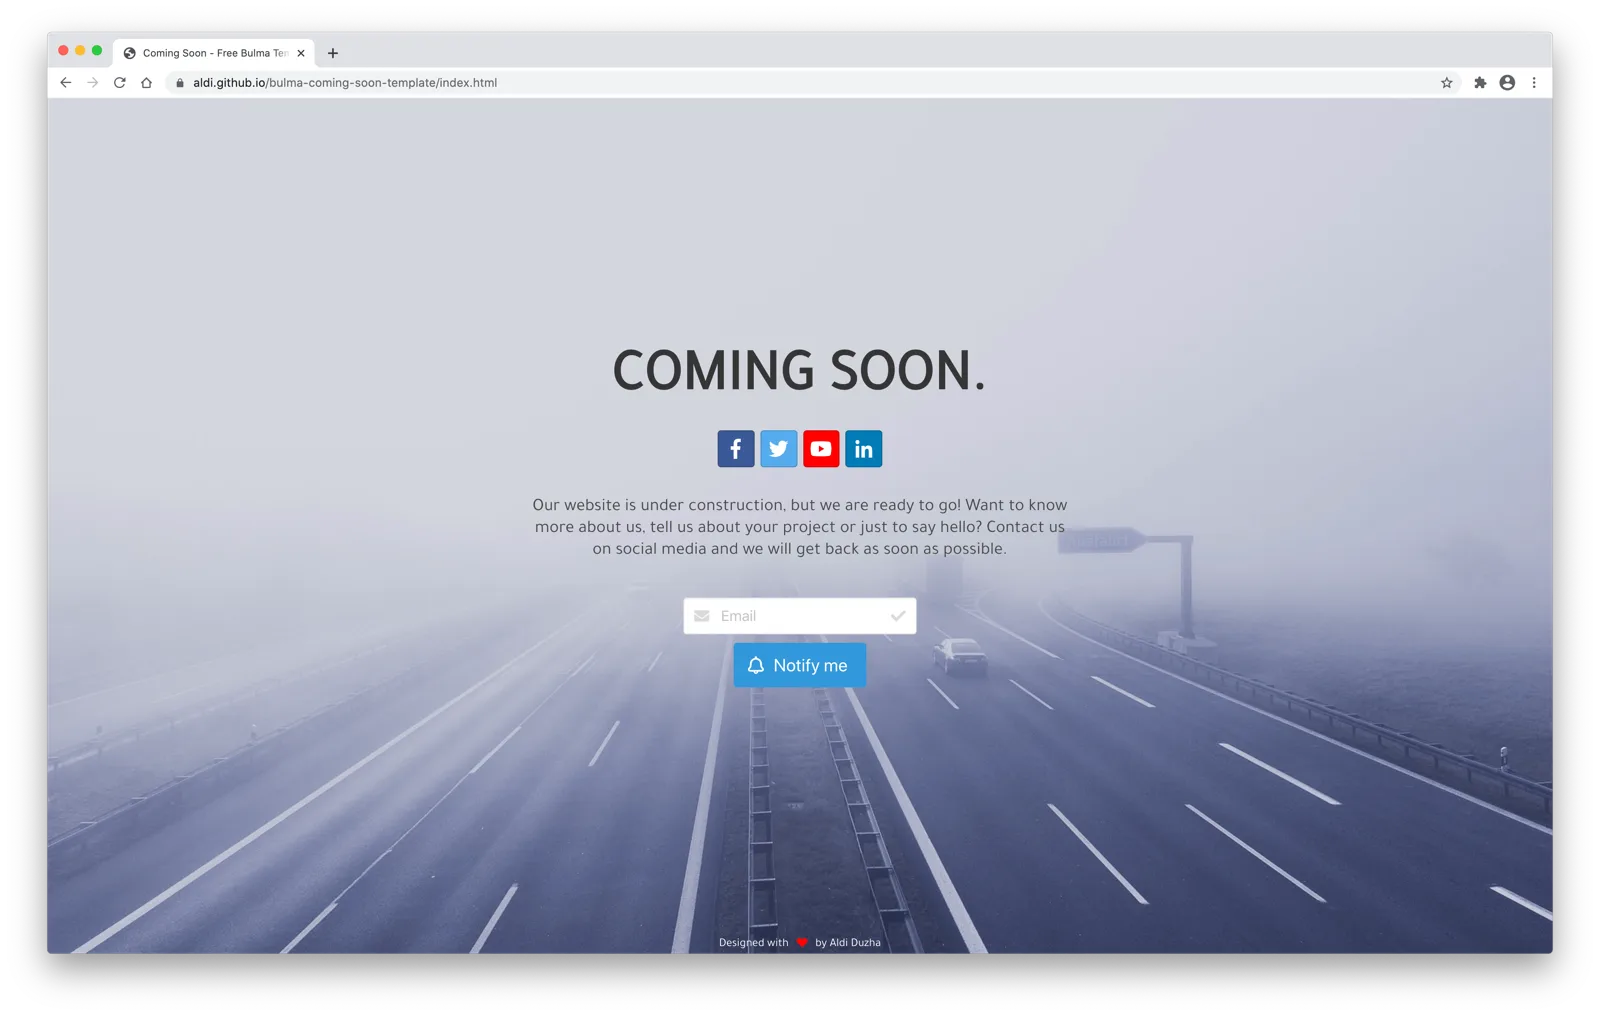
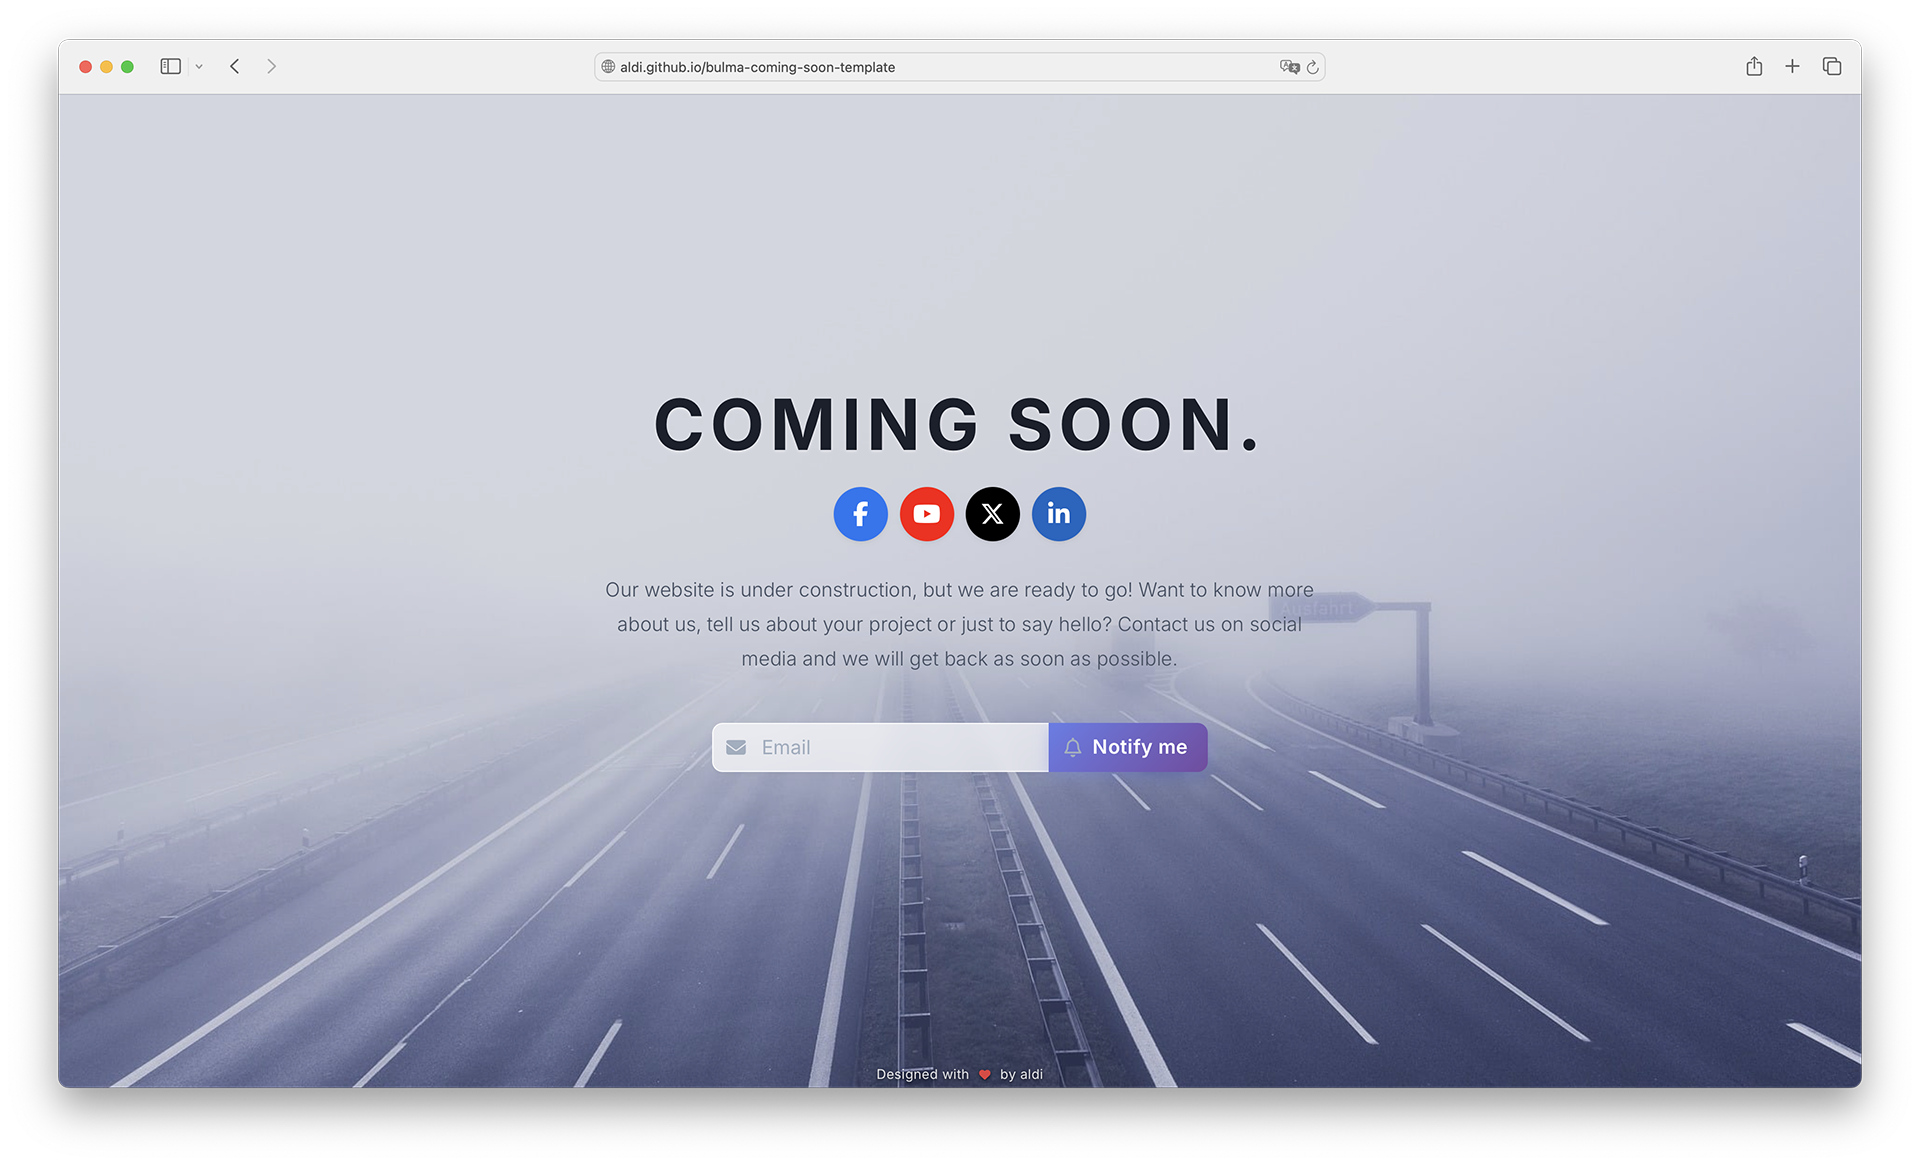
Update coming soon template

diff --git a/README.md b/README.md
@@ -9,6 +9,9 @@ A curated collection of free, real-world templates built with the Bulma CSS Fram
 
 ## Templates 🎨
 
+Coming Soon Template: [Live Demo](https://aldi.github.io/bulma-coming-soon-template/) | [Source Code](https://github.com/aldi/bulma-coming-soon-template/)
+![Coming Soon template screenshot](docs/previews/coming_soon.webp)
+
 Tropico Template: [Live Demo](https://restylianos.github.io/bulma-tropico-template/) | [Source Code](https://github.com/restylianos/bulma-tropico-template)
 ![Tropico template screenshot](docs/previews/tropico.webp)
 
@@ -29,9 +32,6 @@ Hotel Template: [Live Demo](https://aldi.github.io/bulma-hotel-template/) | [Sou
 
 Event Participation Template: [Live Demo](https://aldi.github.io/bulma-event-participation-template/) | [Source Code](https://github.com/aldi/bulma-event-participation-template/)
 ![Event Participation template screenshot](docs/previews/event.webp)
-
-Coming Soon Template: [Live Demo](https://aldi.github.io/bulma-coming-soon-template/) | [Source Code](https://github.com/aldi/bulma-coming-soon-template/)
-![Coming Soon template screenshot](docs/previews/coming_soon.webp)
 
 Each template has its own dedicated repo. This repo is for showcase purposes only.
 